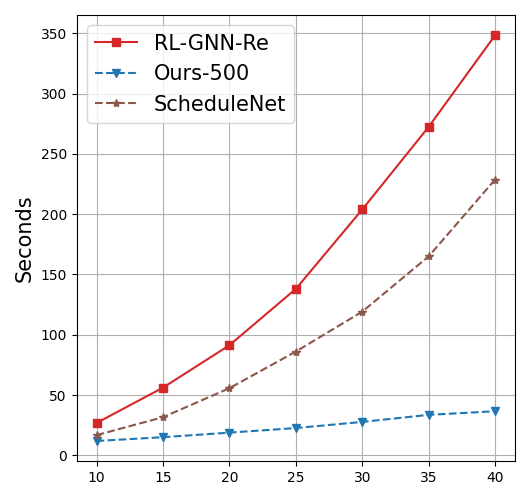
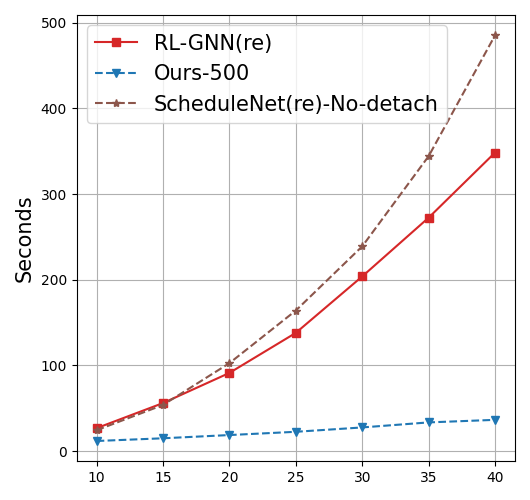
update

diff --git a/rollout.py b/rollout.py
@@ -59,7 +59,7 @@ if __name__ == "__main__":
     tga = TGA().to(dev)
     policy = Policy().to(dev)
 
-    setting = 'j=40'  # 'm=10', 'j=40', 'free_for_all'
+    setting = 'free_for_all'  # 'm=10', 'j=40', 'free_for_all'
 
     if setting == 'm=10':
         j = [10, 15, 20, 25, 30, 35, 40]
@@ -68,8 +68,8 @@ if __name__ == "__main__":
         m = [10, 15, 20, 25, 30, 35, 40]
         j = [40 for _ in range(len(m))]
     else:
-        m = [5]
-        j = [30]
+        m = [15, 15, 20, 15, 20, 15, 20, 20]
+        j = [15, 20, 20, 30, 30, 50, 50, 100]
     save_dir = 'plt/ScheduleNet_complexity_{}_reimplement.npy'.format(setting)
 
     print('Warm start...')
@@ -80,9 +80,9 @@ if __name__ == "__main__":
     times = []
     for p_m, p_j in zip(m, j):  # select problem size
         print('Problem size = (m={}, j={})'.format(p_m, p_j))
-        s = Simulator(p_m, p_j, verbose=False, detach_done=True)
+        s = Simulator(p_m, p_j, verbose=False, detach_done=False)
         _, t, _ = rollout(s, dev, embedding_net=tga, policy_net=policy, verbose=True)
         times.append(t)
 
-    numpy.save(save_dir, numpy.array(times))
+    # numpy.save(save_dir, numpy.array(times))
 

diff --git a/plt/plot_complexity.py b/plt/plot_complexity.py
@@ -40,9 +40,9 @@ elif fixed == 'j=30':
 plt.ylabel('Seconds', {'size': y_label_scale})
 plt.grid()
 x = np.array(x_labels)
-plt.plot(x, obj0, color='tab:red', marker="s", label='RL-GNN-Re')
+plt.plot(x, obj0, color='tab:red', marker="s", label='RL-GNN(re)')
 plt.plot(x, obj1, color='tab:blue', linestyle="--", marker="v", label='Ours-500')
-plt.plot(x, obj2, color='tab:brown', linestyle="--", marker="*", label='ScheduleNet')
+plt.plot(x, obj2, color='tab:brown', linestyle="--", marker="*", label='ScheduleNet(re)')
 
 plt.tight_layout()
 plt.legend(fontsize=anchor_text_size)
